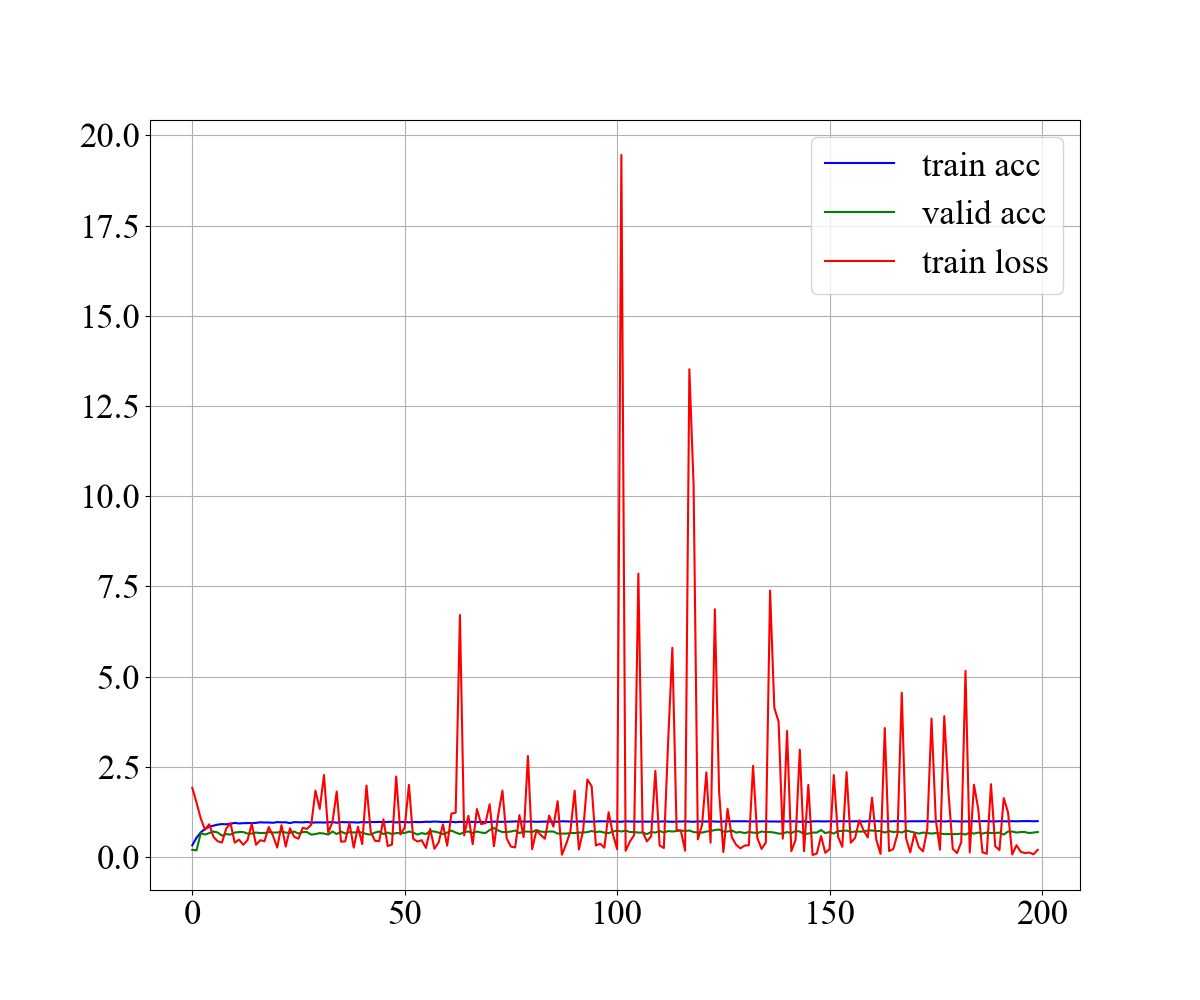
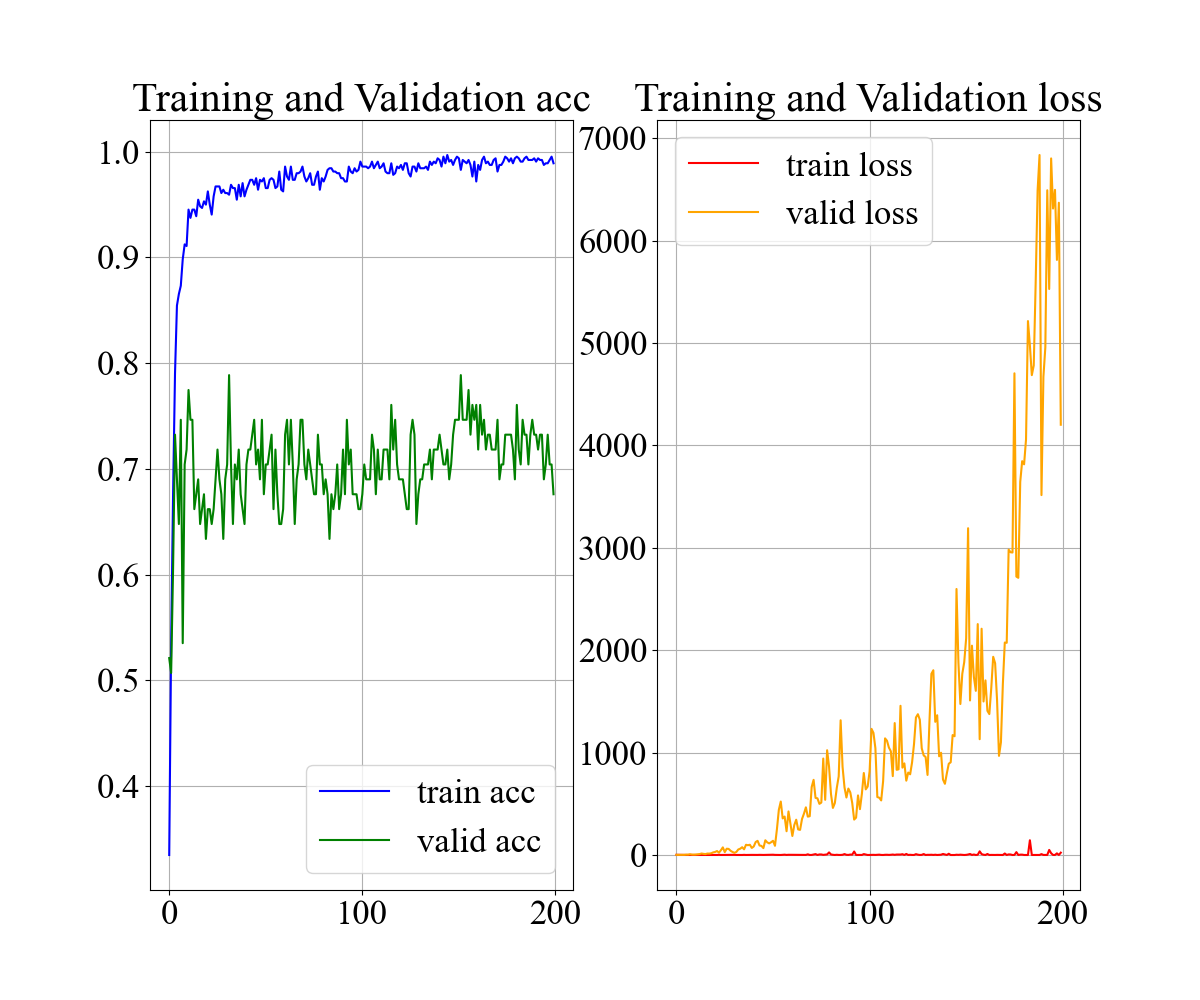
update:グラフの結果更新＆CNNのコード改良

diff --git a/SignalProcessing/cnn.py b/SignalProcessing/cnn.py
@@ -27,20 +27,20 @@ def plot_history(history, save_graph_img_path, fig_size_width, fig_size_height, 
     plt.figure(figsize=(fig_size_width, fig_size_height))
     plt.rcParams['font.family'] = 'Times New Roman'
     plt.rcParams['font.size'] = lim_font_size  # 全体のフォント
-    #plt.subplot(121)
+    plt.subplot(121)
 
     # plot accuracy values
     plt.plot(epochs, acc, color = "blue", linestyle = "solid", label = 'train acc')
     plt.plot(epochs, val_acc, color = "green", linestyle = "solid", label= 'valid acc')
-    #plt.title('Training and Validation acc')
-    #plt.grid()
-    #plt.legend()
+    plt.title('Training and Validation acc')
+    plt.grid()
+    plt.legend()
 
     # plot loss values
-    #plt.subplot(122)
+    plt.subplot(122)
     plt.plot(epochs, loss, color = "red", linestyle = "solid" ,label = 'train loss')
-    #plt.plot(epochs, val_loss, color = "orange", linestyle = "solid" , label= 'valid loss')
-    #plt.title('Training and Validation loss')
+    plt.plot(epochs, val_loss, color = "orange", linestyle = "solid" , label= 'valid loss')
+    plt.title('Training and Validation loss')
     plt.legend()
     plt.grid()
 
